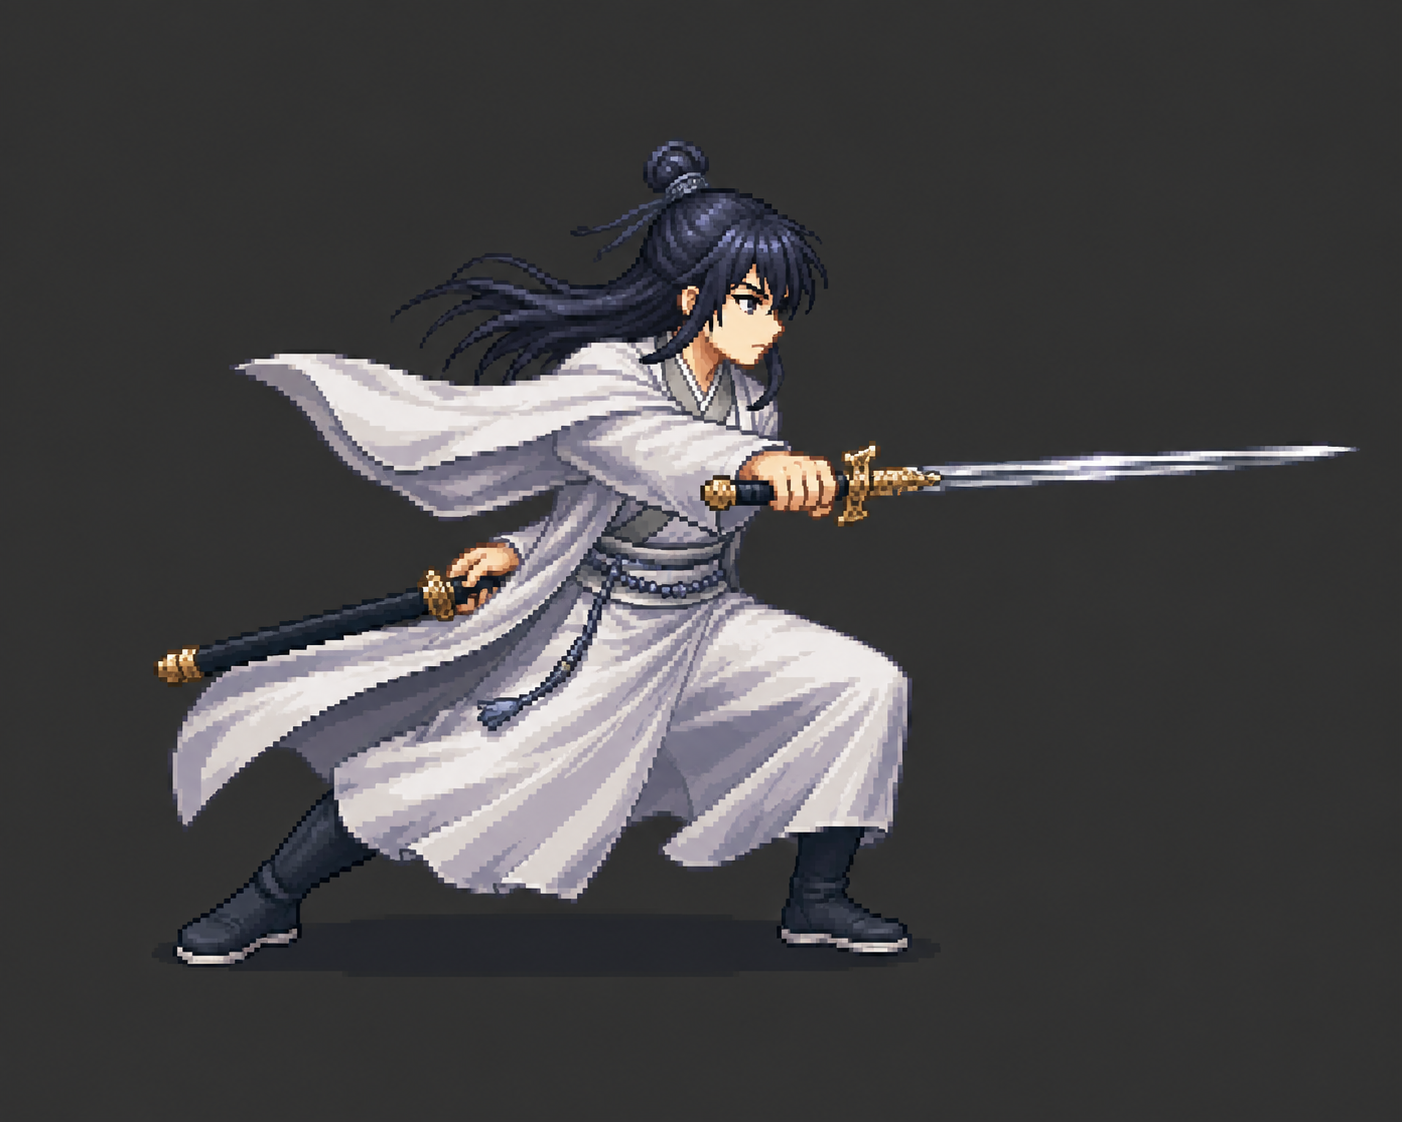
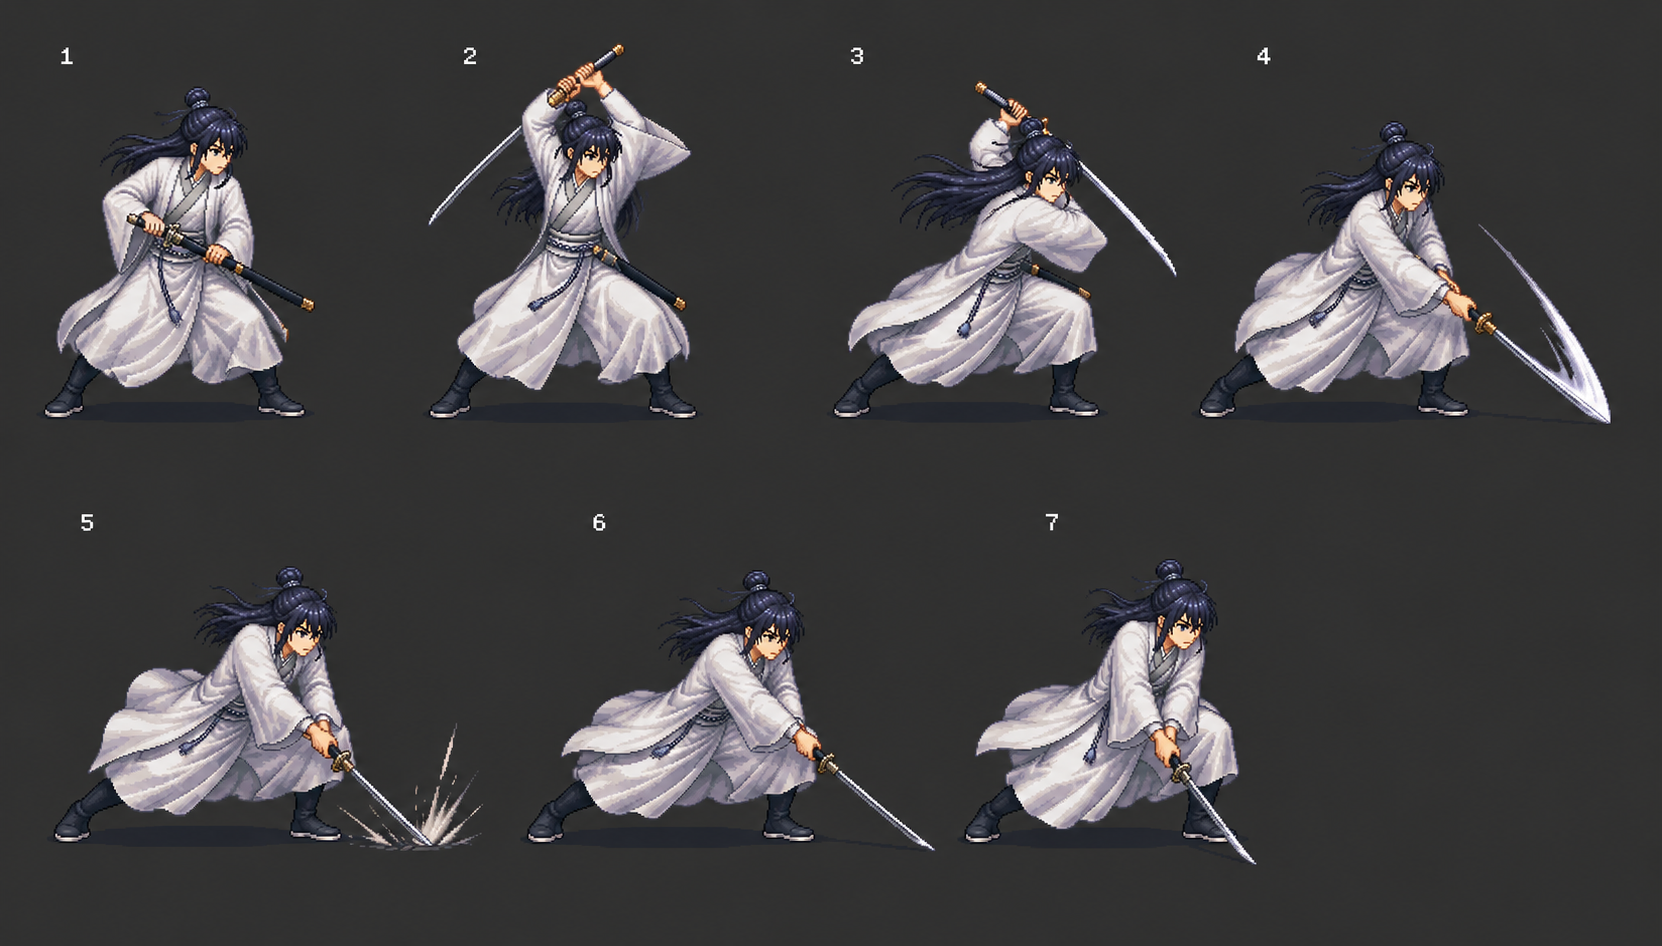
docs: CLAUDE.md에 common-guidelines 참조 및 위키 사서 역할 명시
애니메이션 확장된 스프라이트, 위키 컨셉 문서 갱신 포함

diff --git a/.claude/common-guidelines.md b/.claude/common-guidelines.md
@@ -1,0 +1,124 @@
+# 공통 개발 지침 (템플릿)
+
+흔한 LLM 코딩 실수를 줄이기 위한 행동 지침 + Claude Code 도구 사용 취향. 프로젝트 특성과 무관해서 다른 레포에 그대로 복사해 재사용 가능. 고유 내용(스택/명령/위키/gotchas)은 프로젝트 루트 `CLAUDE.md`에 있음.
+
+**트레이드오프:** 이 지침은 속도보다 신중함에 무게를 둠. 사소한 작업은 판단에 맡김.
+
+## 필요한 플러그인
+
+아래 섹션들이 전제하는 플러그인. `/plugin marketplace add <repo>` 후 `/plugin install <name>@<marketplace>`로 설치.
+
+- **caveman** — Caveman 모드 섹션. 마켓플레이스: GitHub `JuliusBrussee/caveman`.
+- **ponytail** — Ponytail 플러그인 지침 섹션. 마켓플레이스: GitHub `DietrichGebert/ponytail`.
+- **ecc** — 에이전트 팀 섹션의 `ecc:team-builder` 등. 마켓플레이스: `https://github.com/affaan-m/ECC.git`.
+- **claude-team-orchestration** — 에이전트 팀 섹션의 `swarm:team-management`/`swarm:orchestration-patterns`/`swarm:messaging`/`swarm:task-system`. 마켓플레이스: GitHub `zircote-plugins/claude-team-orchestration`. ⚠ Agent Teams는 실험적 기능이라 기본 비활성 — `settings.json`에 `"env": { "CLAUDE_CODE_EXPERIMENTAL_AGENT_TEAMS": "1" }` 추가하거나 환경변수 `CLAUDE_CODE_EXPERIMENTAL_AGENT_TEAMS=1`로 export 필요.
+- **superpowers** — Superpowers 플러그인 지침 섹션. 마켓플레이스: GitHub `obra/superpowers-marketplace`.
+
+## 코딩 전에 생각하기
+
+**추측 금지. 혼란 숨기지 않기. 트레이드오프 드러내기.**
+
+구현 전:
+
+- 가정을 명시적으로 밝힘. 불확실하면 질문.
+- 여러 해석이 가능하면 모두 제시 - 조용히 하나만 고르지 않음.
+- 더 단순한 방법 있으면 언급. 근거 있으면 반박도 함.
+- 불명확하면 멈춤. 무엇이 헷갈리는지 명시. 질문.
+
+## 단순함 우선
+
+**문제 해결에 필요한 최소 코드. 추측성 코드 없음.**
+
+- 요청받지 않은 기능 없음.
+- 1회성 코드에 추상화 없음.
+- 요청하지 않은 "유연성"이나 "설정 가능성" 없음.
+- 발생 불가능한 시나리오용 에러 처리 없음.
+- 200줄 짜리가 50줄로 줄일 수 있다면 다시 씀.
+
+자문: "시니어 엔지니어가 이걸 과도하다고 할까?" 그렇다면 단순화.
+
+## 외과적 변경
+
+**꼭 필요한 것만 건드림. 자기가 만든 것만 정리.**
+
+기존 코드 수정 시:
+
+- 인접 코드, 주석, 포맷팅 "개선" 안 함.
+- 안 망가진 것 리팩터링 안 함.
+- 본인 스타일이 달라도 기존 스타일 맞춤.
+- 관련 없는 죽은 코드 발견하면 언급만 - 삭제 안 함.
+
+변경으로 고아 코드 생겼을 때:
+
+- 본인 변경으로 안 쓰이게 된 import/변수/함수는 제거.
+- 요청 없이 기존 죽은 코드 제거 안 함.
+
+기준: 변경된 모든 줄은 사용자 요청과 직접 연결돼야 함.
+
+## 목표 지향 실행
+
+**성공 기준 정의. 검증될 때까지 반복.**
+
+작업을 검증 가능한 목표로 전환:
+
+- "검증 추가" → "잘못된 입력에 대한 테스트 작성 후 통과시키기"
+- "버그 수정" → "재현하는 테스트 작성 후 통과시키기"
+- "X 리팩터링" → "리팩터링 전후 테스트 통과 확인"
+
+다단계 작업은 간단한 계획 명시:
+
+```
+1. [단계] → 검증: [확인 항목]
+2. [단계] → 검증: [확인 항목]
+3. [단계] → 검증: [확인 항목]
+```
+
+강한 성공 기준은 독립적 반복을 가능케 함. 약한 기준("작동하게 하기")은 계속된 확인 필요.
+
+---
+
+**이 지침이 작동 중이라는 신호:** 불필요한 diff 변경 감소, 과도한 설계로 인한 재작업 감소, 실수 이후가 아닌 구현 전에 나오는 확인 질문.
+
+## 커밋 메시지 규칙
+
+- 커밋 메시지는 항상 한글로 작성하세요.
+- Conventional Commits 규칙을 따르세요 (`feat:`, `fix:`, `chore:`, `refactor:` 등).
+- 짧은 서술형 구문 스타일로 작성하고, "했습니다", "하였습니다", "됩니다" 같은 완결형 문장으로 끝내지 마세요.
+- "~개선", "~추가", "~수정", "~제거", "~반영", "~정리", "~지원" 같은 명사형 어미를 선호하세요 (예: "Layers collapse 시 Templates 영역 크기 유지", "Object Manager 패널 스타일 개선").
+- 무엇이 왜 바뀌었는지 가능하면 1줄로 표현하세요.
+- Co-authored-by 등의 trailer 라인은 추가하지 마세요.
+
+## Caveman 모드
+
+- 항상 한글로 답변하세요.
+- 세션 중 `/caveman ultra` 모드가 적용되어 있지 않다면 `/caveman ultra` 명령을 1번 실행하세요.
+
+## 에이전트 팀 기능 지침 (Agent Teams Guidelines)
+
+`claude-team-orchestration` 플러그인을 통한 멀티 에이전트 팀 기능을 지원합니다. 복잡한 코드 리뷰, 다중 파일 리팩터링, 광범위한 리서치, 아키텍처 분석이 필요한 경우 혼자 순차적으로 처리하지 말고, 적극적으로 에이전트 팀 기능을 가동하여 병렬로 처리해야 합니다.
+
+### 에이전트 팀 작동 규칙 (Agent Teams Rules)
+
+- **가동 조건:** 태스크가 여러 도메인(예: 보안 + 성능 + QA)에 걸쳐 있거나 대규모 파일 분석이 필요할 때 독립적인 에이전트 팀을 구성합니다.
+- **워크플로우 프레임워크:** 팀 구성원 관리 및 작업 위임을 위해 `swarm:team-management` 및 `swarm:orchestration-patterns` 기술을 최우선으로 활용합니다.
+- **실행 모드:**
+  - 여러 에이전트가 동시에 독립적으로 실행될 수 있도록 **병렬 전문가(Parallel Specialists)** 또는 **스웜(Swarms)** 패턴을 우선 선택합니다.
+  - 팀원 간 동기화를 위해 상호 JSON 메시징(`swarm:messaging`)과 공유 작업 큐(`swarm:task-system`)를 사용합니다.
+- **ECC 연동:** 맞춤형 에이전트 팀을 신속하게 빌드하기 위해 `ecc:team-builder` 설정 및 로컬 페르소나 마크다운 템플릿(`.md`)을 적극 활용합니다.
+- **최종 종합(Synthesis):** 팀 리더(Lead) 에이전트는 각 워커(Worker) 에이전트들의 병렬 분석 결과를 수집하고, 동의 사항(Agreements)과 충돌 사항(Tensions)을 요약한 최종 통합 보고서를 작성한 뒤 팀 세션을 안전하게 종료해야 합니다.
+
+## Ponytail 플러그인 지침
+
+코드 작성/수정 작업에는 `ponytail` 플러그인을 사용하세요. 불필요한 추상화, 미리 만드는 보일러플레이트, 과도한 설정 옵션 없이 최소한의 동작 코드를 우선합니다. 표준 라이브러리/기존 코드베이스 재사용 > 새 구현 순서를 따르고, 의도적으로 단순화한 부분은 한계와 확장 지점을 짧게 남기세요.
+
+## Superpowers 플러그인 지침
+
+작업 시작 전 관련 스킬 있으면 반드시 사용 — 특히 프로세스 스킬을 구현 스킬보다 먼저 적용:
+
+- 새 기능/변경 착수 전: `superpowers:brainstorming` — 요구사항·의도 먼저 탐색, 바로 구현 안 함.
+- 버그·테스트 실패·예상 밖 동작: `superpowers:systematic-debugging` — 원인 규명 먼저, 바로 고치지 않음.
+- 스펙/요구사항 있는 다단계 작업: `superpowers:writing-plans`로 계획 작성 후 `superpowers:executing-plans`로 실행.
+- 신규 기능/버그 수정 구현: `superpowers:test-driven-development`.
+- 완료·수정·통과 주장 전: `superpowers:verification-before-completion` — 검증 명령 실제로 실행하고 출력 확인 후에만 주장.
+- 개발 후 UI 동작 테스트: `ecc:browser-qa` — 브라우저 자동화로 실제 화면에서 검증.
+- 개발 브랜치 마무리 시: `superpowers:finishing-a-development-branch`.

diff --git a/wiki/concepts/에셋-아트-컨셉.md b/wiki/concepts/에셋-아트-컨셉.md
@@ -59,11 +59,23 @@ sources: [장구-시스템, 무공-시스템, 스테이지-레벨링-기획서, 
 
 **idle/attack 애니메이션**: 포즈 구조(선딜-타격-후딜 3구간, idle 4~6프레임/attack 6~8프레임)는 유지하되, attack 동작은 "노출된 직검 찌르기"가 아니라 **발도(拔刀) — 칼집에서 검을 뽑아 베는 동작**으로 재설계 필요(후속 작업, 아직 미확정).
 
-**실제 도트 산출물**: idle 애니메이션 4프레임(2026-08-01, `assets/sprites/character/mokhyeon-idle-sheet.png`/`@2x.png`+`.json`, 원본 `mokhyeon-idle.aseprite`, 태그 `idle` 1~4프레임 forward 110ms 균등) + attack 애니메이션 3프레임(`mokhyeon-attack-sheet.png`/`@2x.png`+`.json`, 원본 `mokhyeon-attack.aseprite`, 태그 `attack` 1~3프레임: 선딜130ms→타격70ms→후딜150ms) 완성. 단독 스틸컷 `mokhyeon-idle.png`/`@2x.png`(idle 정지 포즈), `mokhyeon-attack.png`/`@2x.png`(타격 순간 포즈)도 유지.
+**실제 도트 산출물**: idle 호흡 애니메이션 6프레임(`assets/sprites/character/mokhyeon-idle-sheet.png`/`@2x.png`+`.json`, 원본 `mokhyeon-idle.aseprite`, 태그 `idle` forward, 1주기 0.97초) + attack 내려베기 애니메이션 7프레임(`mokhyeon-attack-sheet.png`/`@2x.png`+`.json`, 원본 `mokhyeon-attack.aseprite`, 태그 `attack` forward, 0.63초) 완성. 모션 확인용 GIF `mokhyeon-idle-preview.gif`, `mokhyeon-attack-preview.gif`(8x) 동봉. 단독 스틸컷 `mokhyeon-idle.png`/`@2x.png`(호흡 중립 포즈), `mokhyeon-attack.png`/`@2x.png`(④ 내려베기 순간)도 유지.
 
-제작 방식: 사용자 제공 레퍼런스(`raw/assets/에셋-아트-03-주인공-공격-레퍼런스.png`, `에셋-아트-03-주인공-공격idle-레퍼런스.png`)를 Aseprite MCP로 임포트→다운스케일→배경 제거→공용 20색 팔레트 기준 재작화하는 트레이싱 방식(프리핸드 수작업 대신)으로 각각 정지 키프레임 1장씩 제작. 공격 프레임은 칼날 리치·흩날리는 옷자락 수용을 위해 idle 표준 64×64보다 넓은 96×64 캔버스를 쓰는 의도된 예외, idle은 표준 64×64 유지(레퍼런스 원본을 캐릭터 바운딩박스로 먼저 크롭해 종횡비 왜곡 없이 축소).
+제작 방식: 사용자 제공 레퍼런스를 Aseprite MCP로 임포트→다운스케일→배경 제거→공용 20색 팔레트 기준 재작화하는 트레이싱(프리핸드 수작업 대신). 소스는 idle이 `raw/assets/에셋-아트-03-주인공-공격idle-레퍼런스.png`(정지 1장), attack이 `에셋-아트-03-주인공-공격-레퍼런스.png`(**2026-08-10 교체 — 7프레임 애니메이션 시트**). 공격 캔버스는 칼날 리치·흩날리는 옷자락 수용을 위해 idle 표준 64×64보다 넓은 96×64를 쓰는 의도된 예외, idle은 표준 64×64 유지(레퍼런스 원본을 캐릭터 바운딩박스로 먼저 크롭해 종횡비 왜곡 없이 축소).
 
-애니메이션 확장(레퍼런스 없는 중간 프레임): idle 호흡 루프는 별도 드로잉 없이 `sprite` 셀 전체를 1px 수직 오프셋(0→-1→-1→0)하는 기법으로 4프레임 구성 — 발이 살짝 뜨는 트레이드오프가 있지만 1x 실사용 크기에선 미미함. attack 선딜/후딜은 idle 가드 자세(칼을 아직 안 뻗은 자세)를 96×64 캔버스 중앙(x=16)에 그대로 재배치해 재사용 — 발도 동작의 시작/복귀 자세로 자연스럽게 맞물림. 둘 다 새 원화를 그리지 않고 기존 애셋을 기계적으로 재조합한 것이므로, 더 디테일한 고유 중간 동작(팔 궤적 보간, 로브 플로우 변화 등)은 원할 경우 후속 작업으로 남겨둠.
+**애니메이션 설계**:
+
+- **idle 호흡**(6프레임, 180/120/150/180/140/200ms): 레퍼런스가 정지 1장뿐이라 중간 프레임은 합성으로 만든다. 신체를 분절해 서로 다른 양만큼 움직인다 — 다리·발(y≥35) 완전 고정, 상체(y<35) 1px, 머리(y<21) 2px 상승. 분절 경계에 생기는 1px 공백은 바로 위 행을 복제해 메우고, 경계를 허리 매듭 y=34·턱선 y=20에 잡아 이음매를 숨긴다. **뒤쪽 소매는 가슴보다 한 박자 늦게** 따라오도록 바깥 밴드만 1px 지연시키고, **로브 밑단은 허리에서 고정한 채 아래쪽 밴드만** 좌우 1px 흔들어 천이 살아 있게 한다. 원본 몸통은 숨김 레이어 `bodybase`에 보관해 스크립트를 다시 돌려도 변형이 누적되지 않는다.
+- **attack 발도 내려베기**(7프레임, 110/90/70/45/70/90/150ms ≈ 0.63초): 2026-08-10에 사용자가 **7프레임 전부 그려진 애니메이션 시트**를 새 레퍼런스로 교체하면서, 이전의 "팔·검을 레이어로 나눠 각도 계산으로 합성하던 리그"는 전량 폐기하고 **7장 모두 원화 트레이싱**으로 다시 만들었다. 프레임 순서: ①가드 → ②머리 위로 치켜듦 → ③넘어오며 회전 → ④초승달 궤적으로 내려베기 → ⑤지면 강타(스파크) → ⑥따라베기 → ⑦자세 회수.
+
+**attack 트레이싱 파이프라인**(`run_lua_script` 1회 실행): 시트에서 프레임을 잘라내는 좌표를 손으로 재지 않고 자동 검출한다 —
+1. 배경은 중성 회색(`#303031` 내외)이므로 "채널 차이가 작고 밝기 0x1e~0x55"인 픽셀을 배경으로 분류한다. 발밑 그림자(`#232425`)도 같은 규칙에 걸려 자동으로 빠진다.
+2. 열 단위 점유 여부를 훑어 빈 열을 경계로 삼아 7개 프레임을 분리한다. 좌상단 번호 라벨(1~7)은 좌표를 따로 구해 마스킹한다.
+3. 정렬 기준은 **접지선**과 **로브 중심** 두 축이다. 접지선은 "그 행의 전경 픽셀이 10개 이상인 가장 아래 행"으로 잡는다 — 이렇게 하면 얇은 칼끝이 아래로 삐져나와도 발 위치를 잘못 잡지 않는다. 가로 기준은 따뜻한 흰색(`r>b+4`, 차가운 강철 칼날 제외) 로브 덩어리의 무게중심을 쓴다.
+4. 소스 6.6px가 스프라이트 1px이 되도록 축소(배율 0.151)하되, **박스 평균이 아니라 최빈색(mode) 필터**를 쓴다 — 평균+스냅은 로브에 점묘 노이즈를 남기지만, 최빈색은 면이 평평하게 정리된다. 전경 비율이 42% 미만인 칸은 투명 처리한다.
+5. 소스 픽셀을 미리 팔레트 인덱스로 변환해두고 박스 안에서 개수만 세므로 색은 자동으로 20색 안에 갇힌다.
+
+캔버스 상 캐릭터 치수는 idle(신장 49px, 접지선 y=56)과 attack(신장 50px, 접지선 y=56)이 1px 이내로 맞아 두 애니메이션을 이어 붙여도 크기·발높이가 튀지 않는다. attack 신장을 idle보다 키우지 않은 것은 ②프레임에서 머리 위로 치켜든 칼이 64px 안에 들어가야 하기 때문이다.
 
 ## 4. 대1 보스 "혈랑채 두목" + 잡몹, 삼재검법 노드 아이콘
 

diff --git a/CLAUDE.md b/CLAUDE.md
@@ -2,9 +2,13 @@
 
 "무림인 키우기" — 현대에서 살던 사람이 무림으로 이세계 전이해 성장하는 방치형(idle) 캔버스 웹게임.
 
+@.claude/common-guidelines.md 지침을 따른다.
+
 ## 기획 위키
 
 `wiki/` 폴더가 이 프로젝트의 지식 위키다. 작업 전 `wiki/CLAUDE.md` 참고. 게임 기획 산출물(스토리, UX, 시스템 등)은 `wiki/concepts/`에 파일링한다.
+
+위키 사서 역할: `wiki/` 내 산출물 추가·수정 시 기존 문서와 중복·모순 없는지 확인, 알맞은 폴더(`concepts/`, `design/`, `entities/`, `sources/`, `synthesis/`, `raw/`)에 분류, `wiki/index.md`와 `wiki/log.md` 최신 상태 유지 책임진다.
 
 ## UX팀 (기획 서브에이전트)
 
